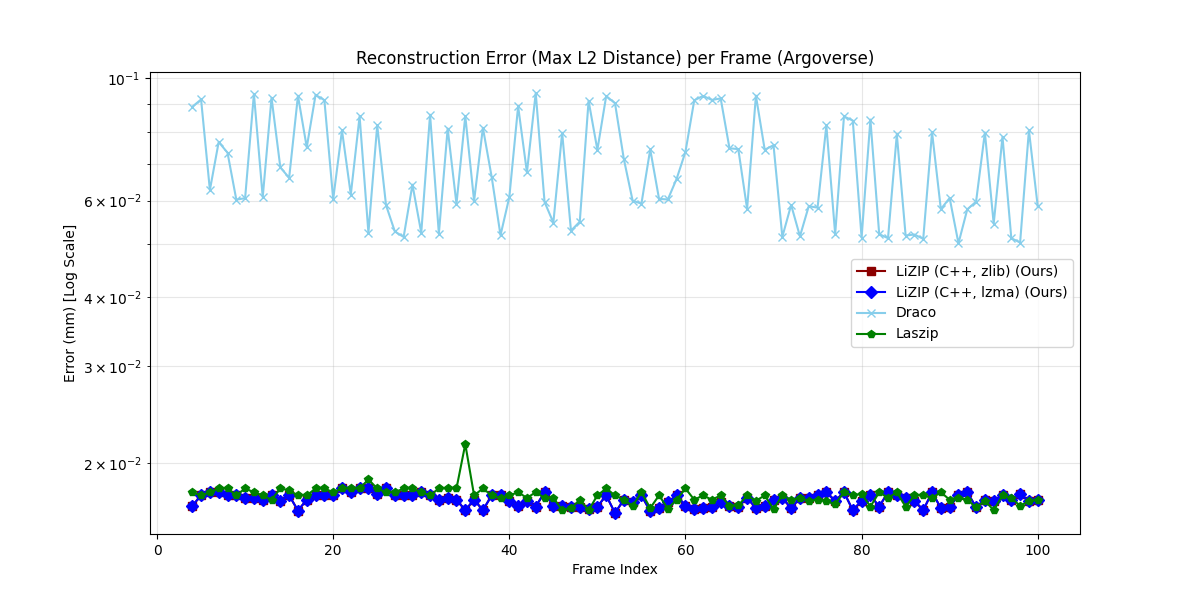
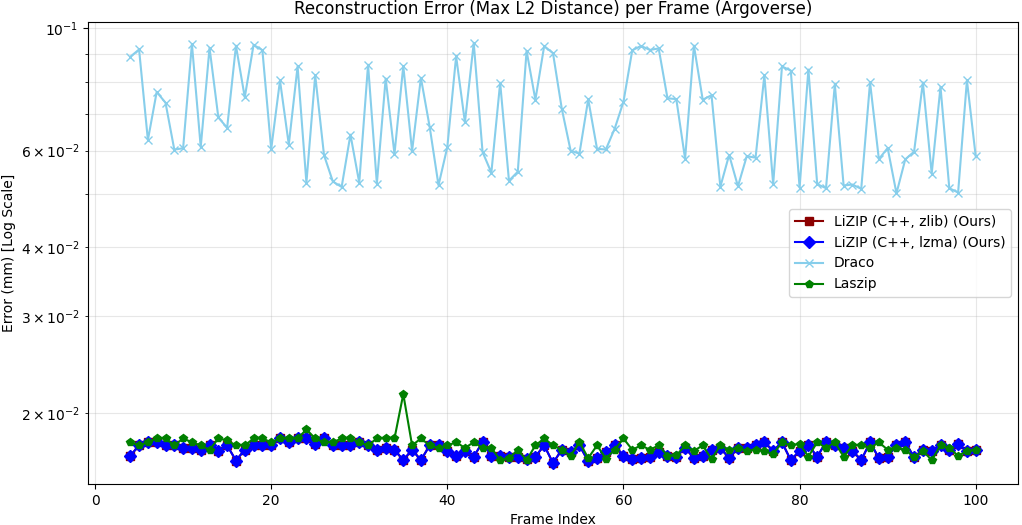
Edited old images to remove excess sides

diff --git a/index.html b/index.html
@@ -22,7 +22,7 @@
 
   <!-- ─── HERO ─────────────────────────────────────────────────────────── -->
   <section class="hero" id="main-section">
-    <div class="hero-body" style="padding-bottom: 11px;">
+    <div class="hero-body" style="padding-top: 3rem; padding-bottom: 11px;">
       <div class="container is-max-desktop">
         <div class="columns is-centered">
           <div class="column has-text-centered" style="padding-bottom: 0%;">
@@ -48,7 +48,7 @@
                 <span class="link-block">
                   <a href="https://arxiv.org/abs/2603.23162v1"
                      class="external-link button is-normal is-rounded is-dark">
-                    <span class="icon"><i class="fab fa-file-pdf"></i></span>
+                    <span class="icon"><i class="fas fa-file-pdf"></i></span>
                     <span>Paper</span>
                   </a>
                 </span>
